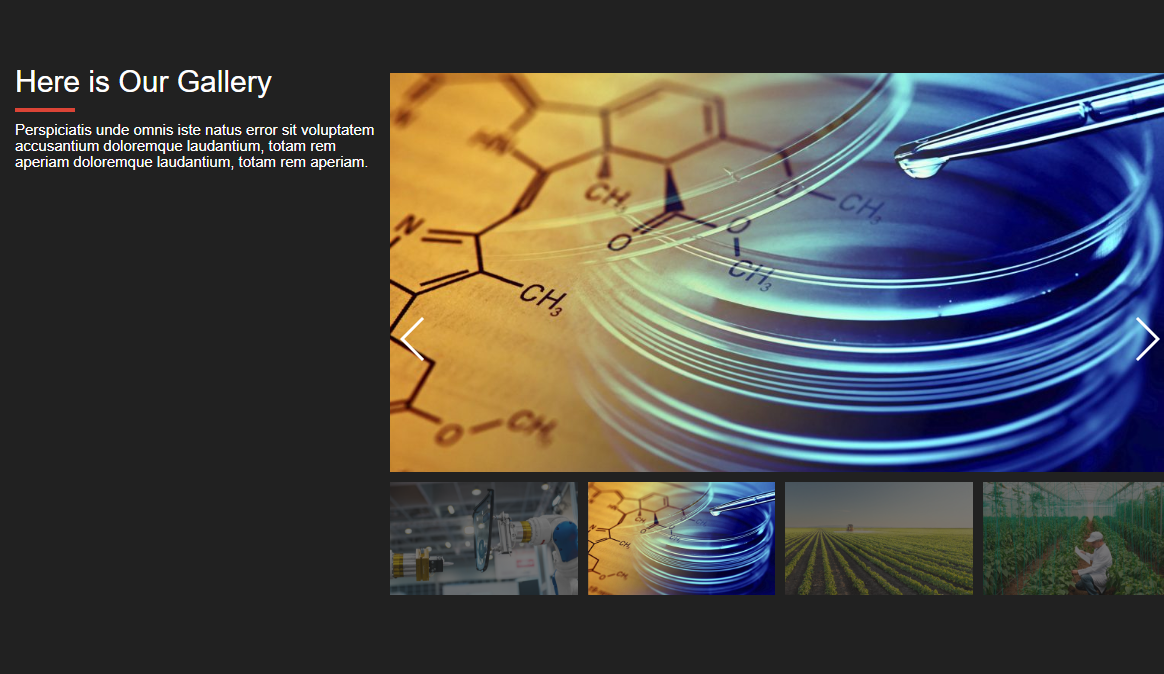
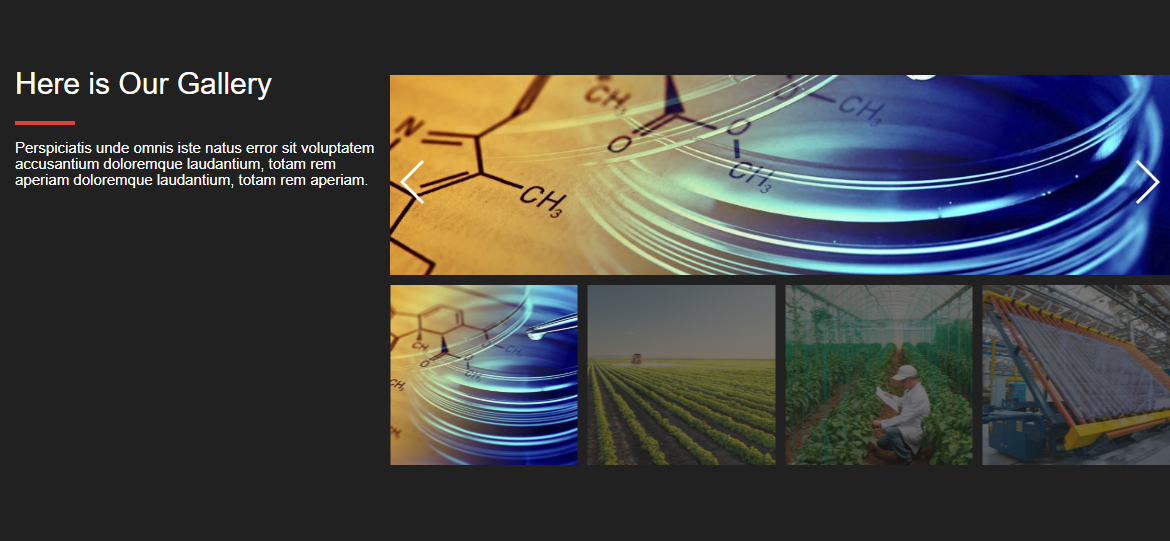
fix 1112
fix W3C

diff --git a/1112/less/1112.less b/1112/less/1112.less
@@ -3,11 +3,10 @@
     //<!-- Phan co 8 cai hinh -->
     .swiper-container {
       width: 100%;
-      height: 300px;
+      height: 200px;
       margin-left: auto;
       margin-right: auto;
     }
-
     .swiper-button-next {
       position: absolute;
       top: 25%;
@@ -19,7 +18,6 @@
         text-decoration: none;
       }
     }
-
     .swiper-button-prev {
       position: absolute;
       top: 25%;
@@ -31,27 +29,26 @@
         text-decoration: none;
       }
     }
-
     .swiper-slide {
       background-size: cover;
       background-position: center;
     }
     .gallery-top {
-      height: 30%;
+      // height: 30%;
       width: 100%;
     }
     .gallery-thumbs {
-      height: 10%;
+      // height: 10%;
       box-sizing: border-box;
       padding: 10px 0;
       .swiper-slide {
         height: 100%;
         opacity: 0.4;
         &:hover {
-        border: none;
-        transition: all 0.5s ease;
-        text-decoration: none;
-        cursor: pointer;
+          border: none;
+          transition: all 0.5s ease;
+          text-decoration: none;
+          cursor: pointer;
         }
       }
       .swiper-slide-thumb-active {

diff --git a/1112/css/1112.css b/1112/css/1112.css
@@ -1,6 +1,6 @@
 .type-1112 .swiper-container {
   width: 100%;
-  height: 300px;
+  height: 200px;
   margin-left: auto;
   margin-right: auto;
 }
@@ -31,11 +31,9 @@
   background-position: center;
 }
 .type-1112 .gallery-top {
-  height: 30%;
   width: 100%;
 }
 .type-1112 .gallery-thumbs {
-  height: 10%;
   box-sizing: border-box;
   padding: 10px 0;
 }

diff --git a/1112/1112.php b/1112/1112.php
@@ -15,8 +15,8 @@ if (!class_exists('lessc')) {
 $less = new lessc;
 $less->compileFile('less/1112.less', 'css/1112.css');
 ?>
-
-<html>
+<!DOCTYPE html>
+<html lang="en">
 <head>
     <title>1112</title>
     <meta charset="UTF-8">
@@ -28,17 +28,18 @@ $less->compileFile('less/1112.less', 'css/1112.css');
     $less = new lessc;
     $less->compileFile('less/1112.less', 'css/1112.css');
     ?>
+    <link href="css/bootstrap.min.css" rel="stylesheet" type="text/css"/>
     <link href="css/font-awesome.min.css" rel="stylesheet" type="text/css"/>
     <link href="css/1112.css" rel="stylesheet" type="text/css"/>
-    <link href="css/bootstrap.min.css" rel="stylesheet" type="text/css"/>
-    <script src="js/jquery-2.1.4.min.js" type="text/javascript"></script>
-    <script src="js/bootstrap.min.js" type="text/javascript"></script>
+    <script src="js/jquery-2.1.4.min.js"></script>
+    <script src="js/bootstrap.min.js"></script>
 
     <link rel="stylesheet" href="css/swiper.min.css">
-    <script src="js/swiper.min.js" type="text/javascript"></script>
+    <script src="js/swiper.min.js"></script>
 </head>
 <body>
     <?php include '../1112/1112-content.php'; ?>
-    <script src="js/1112.js" type="text/javascript"></script>
+    <script src="js/1112.js"></script>
 </body>
+
 </html>

diff --git a/1112/1112-content.php b/1112/1112-content.php
@@ -11,6 +11,7 @@ $url_path = $url_host . $matches[1][0];
 
 $url_path = str_replace('\\', '/', $url_path);
 ?>
+
 <div class="type-1112">
   <div class="container">
     <div class="row">
@@ -23,6 +24,7 @@ $url_path = str_replace('\\', '/', $url_path);
               <hr>
               <h4>Perspiciatis unde omnis iste natus error sit voluptatem accusantium doloremque laudantium, totam rem aperiam doloremque laudantium, totam rem aperiam.</h4>
             </div>
+
             <div class="col-md-8 pic-wpbrow">
              <div class="swiper-container gallery-top">
               <div class="swiper-wrapper">
@@ -52,6 +54,7 @@ $url_path = str_replace('\\', '/', $url_path);
               </div>
             </div>
           </div>
+          
         </div>
       </div>
     </div>
